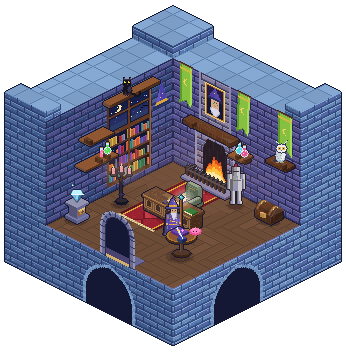
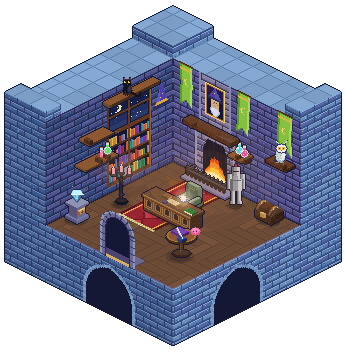
Verwijder de tovenaar uit de voorvertoning op de landingspagina

diff --git a/index.html b/index.html
@@ -91,7 +91,7 @@
         <a class="play" href="./game.html"><span aria-hidden="true">▶</span> Spelen</a>
       </div>
       <figure class="scene">
-        <img src="./assets/images/tower-preview.png" width="346" height="358" alt="De torenkamer in pixelstijl, met de tovenaar, een open haard en een boekenkast">
+        <img src="./assets/images/tower-preview.png" width="346" height="358" alt="De torenkamer in pixelstijl, met een open haard en een boekenkast">
         <canvas id="scene" data-preview width="346" height="358" role="img"
           aria-label="Geanimeerde torenkamer met een brandende haard en een glinsterende diamant" hidden></canvas>
       </figure>

diff --git a/src/game/scene.js b/src/game/scene.js
@@ -1620,7 +1620,7 @@ function drawRoomOccupants(t, dt) {
   for (; index < roomFurnishings.length && roomFurnishings[index].depth <= a + b; index++) {
     drawFurnishing(roomFurnishings[index], t, dt);
   }
-  if (!seatProgress) WIZARD.draw(ctx, wizard.direction, step ? 'walk' : 'idle', step ? step.elapsed : t, x, y);
+  if (!preview && !seatProgress) WIZARD.draw(ctx, wizard.direction, step ? 'walk' : 'idle', step ? step.elapsed : t, x, y);
   for (; index < roomFurnishings.length; index++) drawFurnishing(roomFurnishings[index], t, dt);
 }
 
